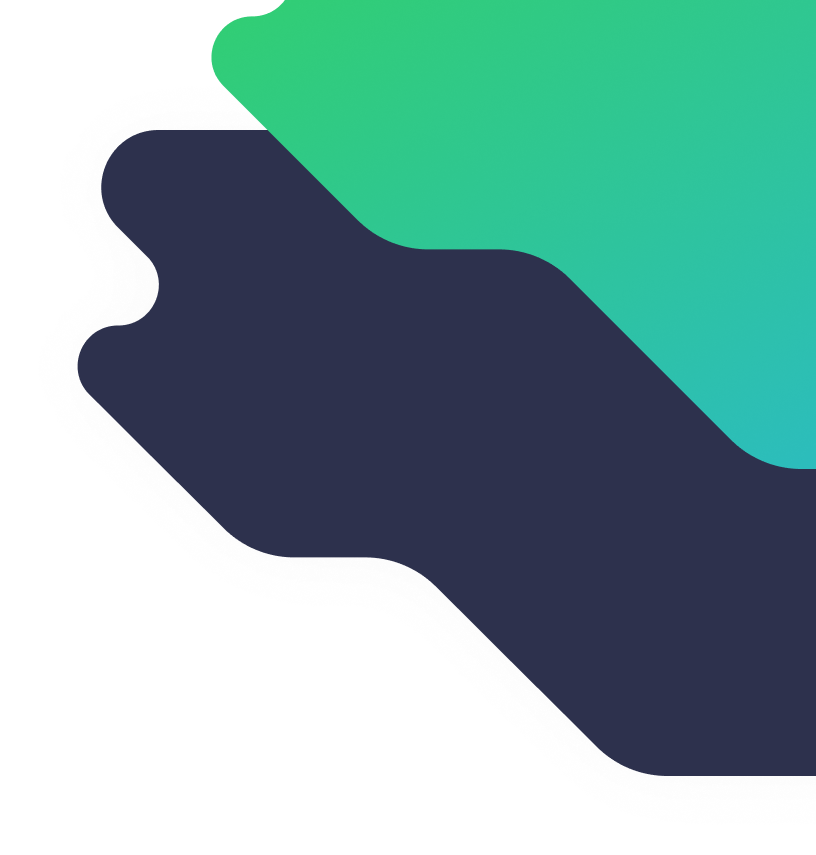
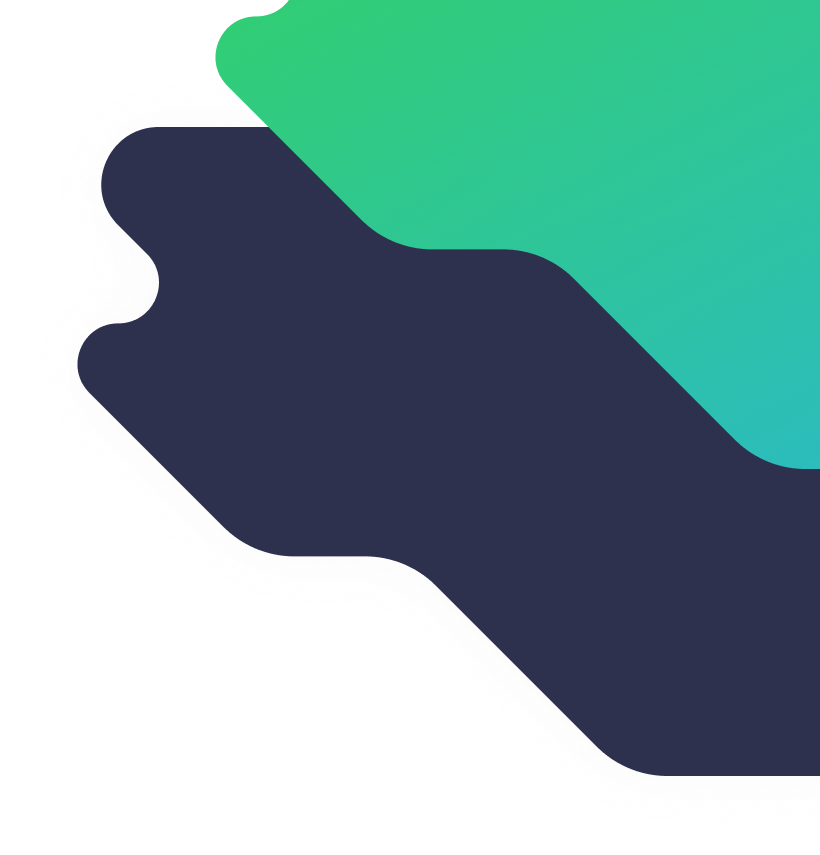
finished header and intro section

diff --git a/css/style.css b/css/style.css
@@ -66,6 +66,8 @@ img {
 }
 .logo_link {
   margin-right: 251px;
+  display: inline-block;
+  vertical-align: baseline;
 }
 .logo_img {
   display: block;
@@ -90,6 +92,14 @@ img {
   letter-spacing: -0.107692px;
   color: #9597a5;
   text-decoration: none;
+  padding-bottom: 25px;
+}
+.nav_link::after {
+  content: "";
+  width: 100%;
+  height: 4px;
+  display: block;
+  background-color: var(--gradient-color);
 }
 .btn {
   font-weight: 500;
@@ -100,6 +110,14 @@ img {
   padding: 8px 26px;
   display: inline-block;
   vertical-align: baseline;
+  transition: opacity 0.2s ease;
+}
+
+.btn:hover {
+  opacity: 0.6;
+}
+.btn:active {
+  opacity: 0.4;
 }
 .bnt_gradient {
   background: var(--gradient-color);
@@ -109,9 +127,9 @@ img {
   background-color: #fafafa;
   padding-top: 170px;
   padding-bottom: 170px;
-  background-image: url("../img/hero-bg-desktop.png");
+  background-image: url("../img/hero-bg.png");
   background-repeat: no-repeat;
-  background-position: center right;
+  background-position: calc(50% + 500px) 75%;
   position: relative;
 }
 .intro_info {
@@ -132,8 +150,8 @@ img {
 }
 .intro_img {
   position: absolute;
-  top: -100px;
-  right: 0;
+  top: -80px;
+  right: calc(50% - 760px);
 }
 .advantages {
   padding-top: 95px;
@@ -217,7 +235,7 @@ img {
 .articles {
   padding-top: 80px;
   padding-bottom: 80px;
-  background-color: #FAFAFA ;
+  background-color: #fafafa;
 }
 .articles_header {
   font-weight: 100;
@@ -248,7 +266,7 @@ img {
   color: #2d314d;
   margin-top: 0;
 }
-.articles_item_info{
+.articles_item_info {
   padding-left: 24px;
   padding-right: 24px;
   padding-bottom: 24px;
@@ -274,4 +292,77 @@ img {
   letter-spacing: -0.15625px;
 
   color: #9597a5;
+}
+.footer {
+  padding-top: 48px;
+  padding-bottom: 48px;
+  background-color: var(--darkblue-color);
+}
+.footer_logo {
+  margin-bottom: 50px;
+  margin-right: 0;
+}
+.footer_container {
+  display: flex;
+  align-items: flex-start;
+}
+.footer_socials {
+  margin-right: 130px;
+}
+.socials_list {
+  display: flex;
+  align-items: center;
+  list-style: none;
+  margin-top: 0;
+  margin-bottom: 0;
+  padding-left: 0;
+  margin-right: -7px;
+  margin-left: -7px;
+}
+.socials_item {
+  margin-right: 7px;
+  margin-left: 7px;
+}
+.nav_footer_list {
+  width: 350px;
+  display: flex;
+  align-items: flex-start;
+  margin-top: 0;
+  margin-bottom: 0;
+  padding-left: 0;
+  list-style: none;
+  flex-wrap: wrap;
+  justify-content: space-between;
+}
+.footer_nav_item {
+  width: 160px;
+  margin-bottom: 8px;
+}
+
+.footer_nav_link {
+  text-decoration: none;
+  font-weight: normal;
+  font-size: 15px;
+  line-height: 26px;
+  display: block;
+  letter-spacing: -0.234375px;
+  color: #ffffff;
+}
+.footer_nav_link:active{
+  color: var(--green-color);
+}
+.btn_footer {
+}
+.footer_link_invite {
+  margin-left: auto;
+}
+.footer_copy {
+  font-weight: normal;
+  font-size: 15px;
+  line-height: 26px;
+  text-align: right;
+  letter-spacing: -0.234375px;
+  color: #ffffff;
+  mix-blend-mode: normal;
+  opacity: 0.5;
 }

diff --git a/index.html b/index.html
@@ -51,7 +51,7 @@
       <a href="#" class="btn bnt_gradient">Request Invite</a>
     </div>
   </div>
-  <img class="intro_img" src="./img/hero-phones-desktop.png" alt="phones" width="730" height="900">
+  <img class="intro_img" src="./img/phones.png" alt="phones" width="730" height="900">
 </section>
 <section class="advantages">
   <div class="container">
@@ -140,7 +140,68 @@
     </ul>
   </div>
 </section>
+<footer class="footer">
+  <div class="container footer_container">
+    <div class="footer_socials">
+      <a href="index.html" class="logo_link footer_logo">
+        <img src="./img/logo_footers.svg" class="logo_img" alt="Trafalgar logo" width="160" height="41">
+      </a>
+      <ul class="socials_list">
+        <li class="socials_item">
+          <a href="#" class="social_link" target="blank">
+            <img src="./img/facebook.svg" alt="facebook" width="25" height="25">
+          </a>
+        </li>
+        <li class="socials_item">
+          <a href="#" class="social_link" target="blank">
+            <img src="./img/insta.svg" alt="facebook" width="25" height="25">
+          </a>
+        </li>
+        <li class="socials_item">
+          <a href="#" class="social_link" target="blank">
+            <img src="./img/twit.svg" alt="facebook" width="25" height="25">
+          </a>
+        </li>
+        <li class="socials_item">
+          <a href="#" class="social_link" target="blank">
+            <img src="./img/youtube.svg" alt="facebook" width="25" height="25">
+          </a>
+        </li>
+        <li class="socials_item">
+          <a href="#" class="social_link" target="blank">
+            <img src="./img/pin.svg" alt="facebook" width="25" height="25">
+          </a>
+        </li>
+      </ul>
+    </div>
+    <ul class="nav_footer_list">
+      <li class="footer_nav_item">
+        <a href="#" class="footer_nav_link">About Us</a>
+      </li>
+      <li class="footer_nav_item">
+        <a href="#" class="footer_nav_link">Contact</a>
+      </li>
+      <li class="footer_nav_item">
+        <a href="#" class="footer_nav_link">Blog</a>
+      </li>
+      <li class="footer_nav_item">
+        <a href="#" class="footer_nav_link">Careers</a>
+      </li>
+      <li class="footer_nav_item">
+        <a href="#" class="footer_nav_link">Support</a>
+      </li>
+      <li class="footer_nav_item">
+        <a href="#" class="footer_nav_link">Privacy Policy</a>
+      </li>
+    </ul>
+    <div class="footer_link_invite">
+      <a href="#" class="btn bnt_gradient btn_footer">Request Invite</a>
+      <p class="footer_copy">© Easybank. All Rights Reserveds</p>
+    </div>
 
+
+  </div>
+</footer>
 
 <body>
 </body>
